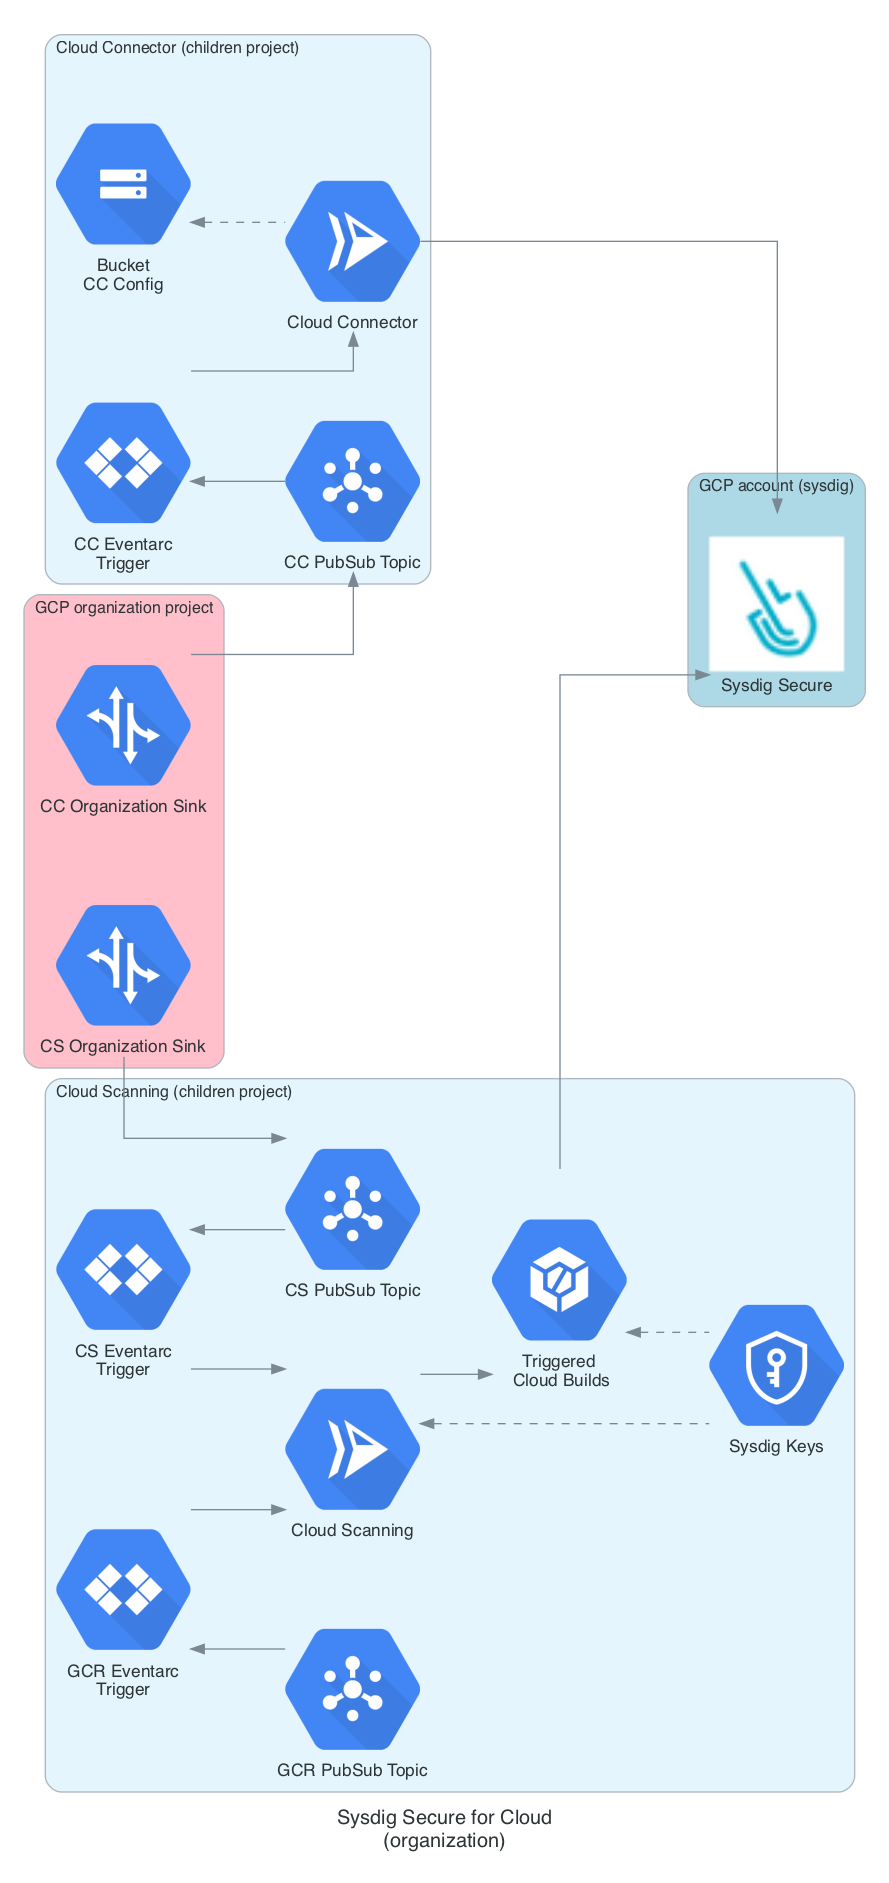
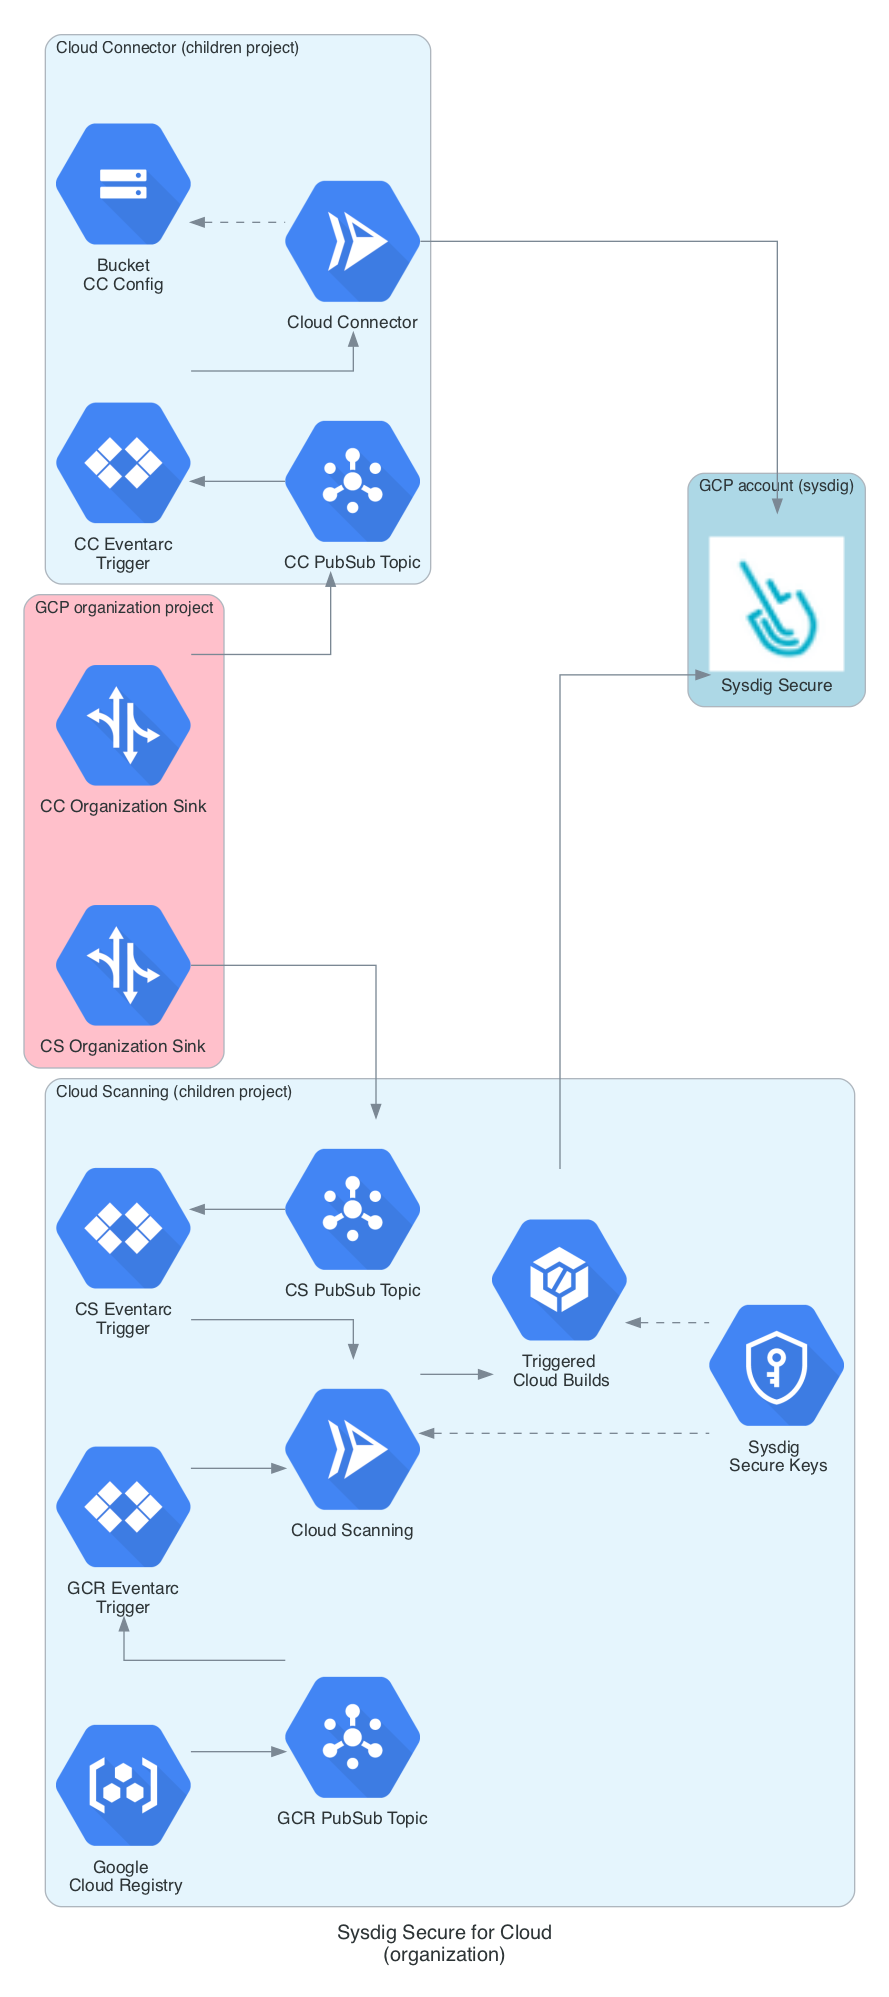
fix: change elementos in diagrams

diff --git a/examples/single-project/diagram-single.py b/examples/single-project/diagram-single.py
@@ -3,7 +3,7 @@
 from diagrams import Cluster, Diagram, Edge
 from diagrams.gcp.analytics import PubSub
 from diagrams.gcp.compute import Run
-from diagrams.gcp.devtools import Code, Build
+from diagrams.gcp.devtools import Code, Build, GCR
 from diagrams.gcp.storage import GCS
 from diagrams.gcp.security import KMS
 from diagrams.custom import Custom
@@ -28,7 +28,7 @@ color_sysdig = "lightblue"
 
 with Diagram("Sysdig Secure for Cloud\n(single project)", graph_attr=diagram_attr, filename="diagram-single", show=True,
              direction="LR"):
-    with Cluster("AWS account (sysdig)"):
+    with Cluster("GCP account (sysdig)"):
         sds = Custom("Sysdig Secure", "../../resources/diag-sysdig-icon.png")
 
     with Cluster("GCP project"):
@@ -39,7 +39,7 @@ with Diagram("Sysdig Secure for Cloud\n(single project)", graph_attr=diagram_att
             ccCloudRun = Run("Cloud Connector")
             bucket = GCS("Bucket\nCC Config")
 
-            bucket << Edge(style="dashed", comment="hola") << ccCloudRun
+            bucket << Edge(style="dashed") << ccCloudRun
             ccEventarc >> ccCloudRun
             ccEventarc << ccPubSub
             ccProjectSink >> ccPubSub
@@ -54,6 +54,7 @@ with Diagram("Sysdig Secure for Cloud\n(single project)", graph_attr=diagram_att
             gcrEventarc = Code("GCR Eventarc\nTrigger")
             csCloudrun = Run("Cloud Scanning")
             csCloudBuild = Build("Triggered\n Cloud Builds")
+            gcr = GCR("Google \n Cloud Registry")
 
             gcrEventarc << gcrPubSub
             csEventarc >> csCloudrun
@@ -63,4 +64,5 @@ with Diagram("Sysdig Secure for Cloud\n(single project)", graph_attr=diagram_att
             gcrEventarc >> csCloudrun
             csProjectSink >> csPubSub
             csCloudrun >> csCloudBuild
+            gcr >> gcrPubSub
         csCloudBuild >> sds

diff --git a/examples/organization/diagram-org.py b/examples/organization/diagram-org.py
@@ -3,11 +3,11 @@
 from diagrams import Cluster, Diagram, Edge
 from diagrams.gcp.analytics import PubSub
 from diagrams.gcp.compute import Run
-from diagrams.gcp.devtools import Code, Build
+from diagrams.gcp.devtools import Code, Build, GCR
 from diagrams.gcp.storage import GCS
 from diagrams.gcp.security import KMS
-from diagrams.custom import Custom
 from diagrams.gcp.network import TrafficDirector
+from diagrams.custom import Custom
 
 diagram_attr = {
     "pad": "0.25",
@@ -40,13 +40,14 @@ with Diagram("Sysdig Secure for Cloud\n(organization)", graph_attr=diagram_attr,
 
     ccCloudRun >> sds
     with Cluster("Cloud Scanning (children project)"):
-        keys = KMS("Sysdig Keys")
+        keys = KMS("Sysdig \n Secure Keys")
         csPubSub = PubSub("CS PubSub Topic")
         gcrPubSub = PubSub("GCR PubSub Topic")
         csEventarc = Code("CS Eventarc\nTrigger")
         gcrEventarc = Code("GCR Eventarc\nTrigger")
         csCloudrun = Run("Cloud Scanning")
         csCloudBuild = Build("Triggered\n Cloud Builds")
+        gcr = GCR("Google \n Cloud Registry")
 
         gcrEventarc << gcrPubSub
         csEventarc >> csCloudrun
@@ -56,4 +57,5 @@ with Diagram("Sysdig Secure for Cloud\n(organization)", graph_attr=diagram_attr,
         gcrEventarc >> csCloudrun
         csProjectSink >> csPubSub
         csCloudrun >> csCloudBuild
+        gcr >> gcrPubSub
     csCloudBuild >> sds

diff --git a/examples/single-project/README.md b/examples/single-project/README.md
@@ -1,24 +1,37 @@
 # Single Project Example
 
-
 This example deploys Cloud Connector and Cloud Scanning into a GCP account.
+
+All the resources will be run in a single project.
+
+![single project diagram]()
+
+## Prerequisits
+
+> ##### APIs Required by Cloud Scanning
+>* Cloud Run API
+>* Eventarc API
+>* Secret Manger API
+>* Cloud Build API
+>* Identity and access management API
 
 
 <!-- BEGINNING OF PRE-COMMIT-TERRAFORM DOCS HOOK -->
+
 ## Requirements
 
 | Name | Version |
 |------|---------|
-| <a name="requirement_terraform"></a> [terraform](#requirement\_terraform) | >= 0.14.0 |
-| <a name="requirement_google"></a> [google](#requirement\_google) | >= 3.67.0 |
-| <a name="requirement_google-beta"></a> [google-beta](#requirement\_google-beta) | >= 3.67.0 |
-| <a name="requirement_sysdig"></a> [sysdig](#requirement\_sysdig) | >= 0.5.21 |
+| <a name="requirement_terraform"></a> [terraform](#requirement\_terraform) | > = 0.14.0 |
+| <a name="requirement_google"></a> [google](#requirement\_google) | > = 3.67.0 |
+| <a name="requirement_google-beta"></a> [google-beta](#requirement\_google-beta) | > = 3.67.0 |
+| <a name="requirement_sysdig"></a> [sysdig](#requirement\_sysdig) | > = 0.5.21 |
 
 ## Providers
 
 | Name | Version |
 |------|---------|
-| <a name="provider_google"></a> [google](#provider\_google) | >= 3.67.0 |
+| <a name="provider_google"></a> [google](#provider\_google) | > = 3.67.0 |
 
 ## Modules
 

diff --git a/examples/organization/README.md b/examples/organization/README.md
@@ -2,22 +2,24 @@
 
 This example deploys Cloud Connector into a GCP organizational GCP account.
 
+![single project diagram]()
 
 <!-- BEGINNING OF PRE-COMMIT-TERRAFORM DOCS HOOK -->
+
 ## Requirements
 
 | Name | Version |
 |------|---------|
-| <a name="requirement_terraform"></a> [terraform](#requirement\_terraform) | >= 0.14.0 |
-| <a name="requirement_google"></a> [google](#requirement\_google) | >= 3.67.0 |
-| <a name="requirement_google-beta"></a> [google-beta](#requirement\_google-beta) | >= 3.67.0 |
-| <a name="requirement_sysdig"></a> [sysdig](#requirement\_sysdig) | >= 0.5.21 |
+| <a name="requirement_terraform"></a> [terraform](#requirement\_terraform) | > = 0.14.0 |
+| <a name="requirement_google"></a> [google](#requirement\_google) | > = 3.67.0 |
+| <a name="requirement_google-beta"></a> [google-beta](#requirement\_google-beta) | > = 3.67.0 |
+| <a name="requirement_sysdig"></a> [sysdig](#requirement\_sysdig) | > = 0.5.21 |
 
 ## Providers
 
 | Name | Version |
 |------|---------|
-| <a name="provider_google"></a> [google](#provider\_google) | >= 3.67.0 |
+| <a name="provider_google"></a> [google](#provider\_google) | > = 3.67.0 |
 
 ## Modules
 
